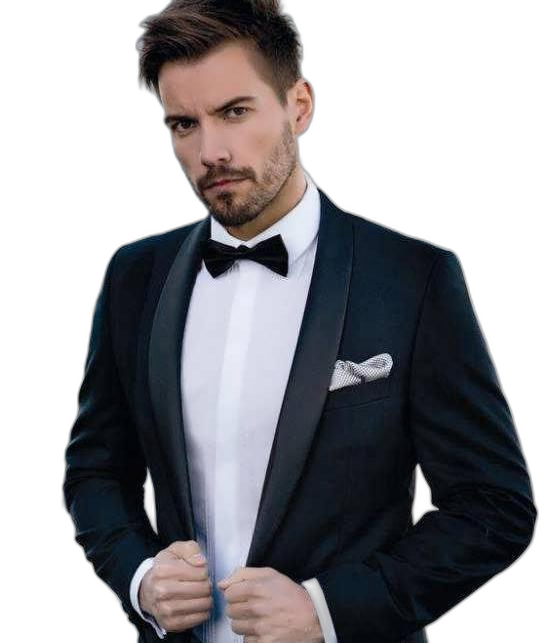
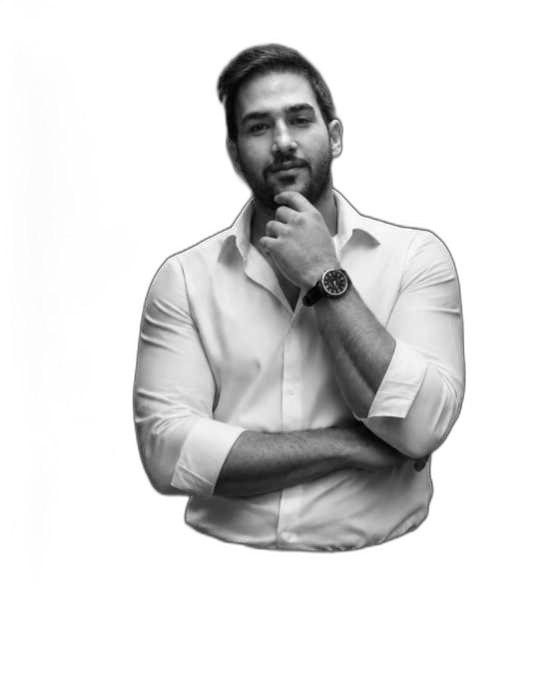
h1 css and image added

diff --git a/style.css b/style.css
@@ -152,6 +152,8 @@
     font-size: clamp(45px, 6vw, 82px);
     line-height: 1.05;
     letter-spacing: -2px;
+    margin-bottom: 20px;
+
 }
 
 .hero h1 span {
